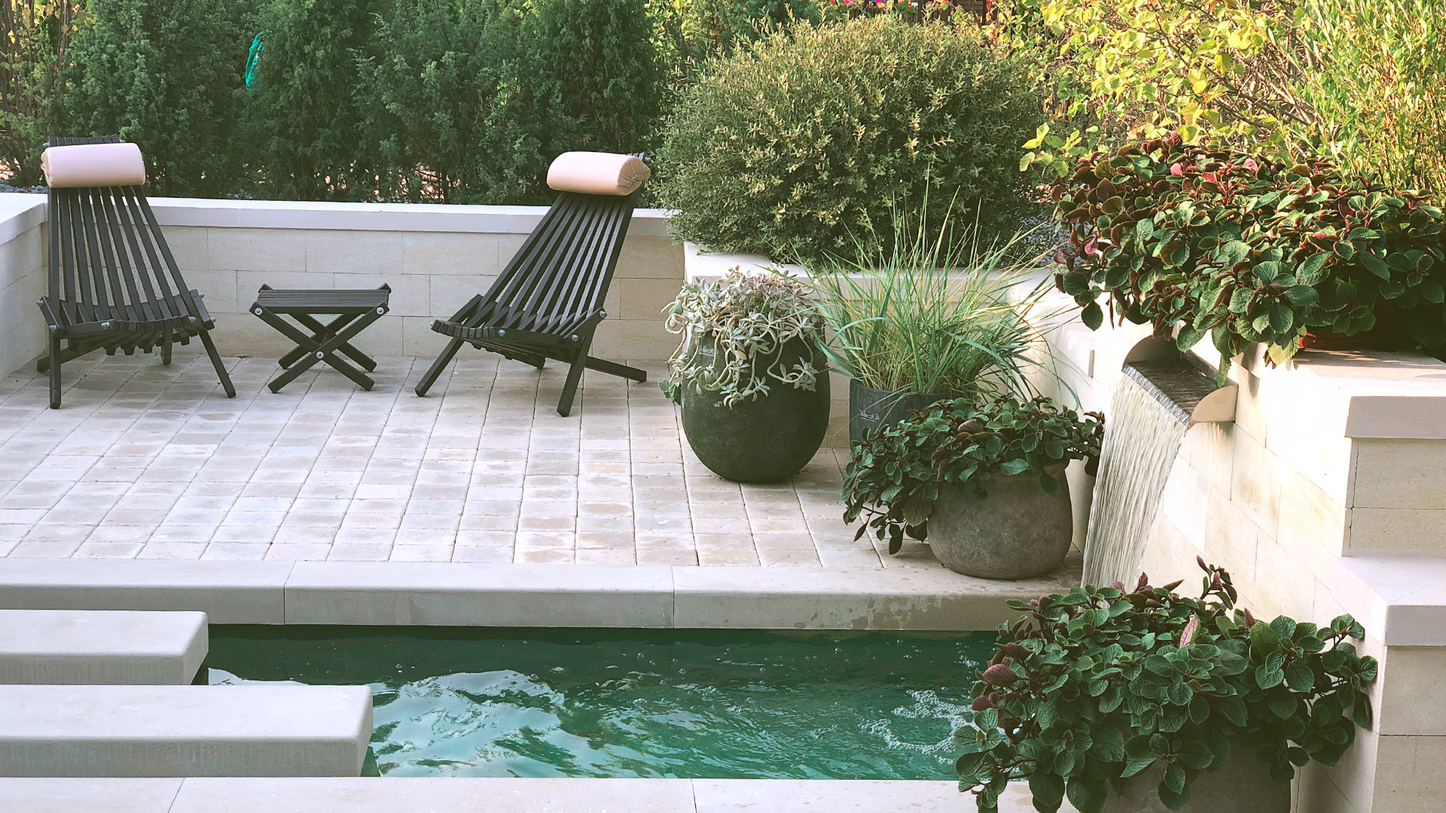
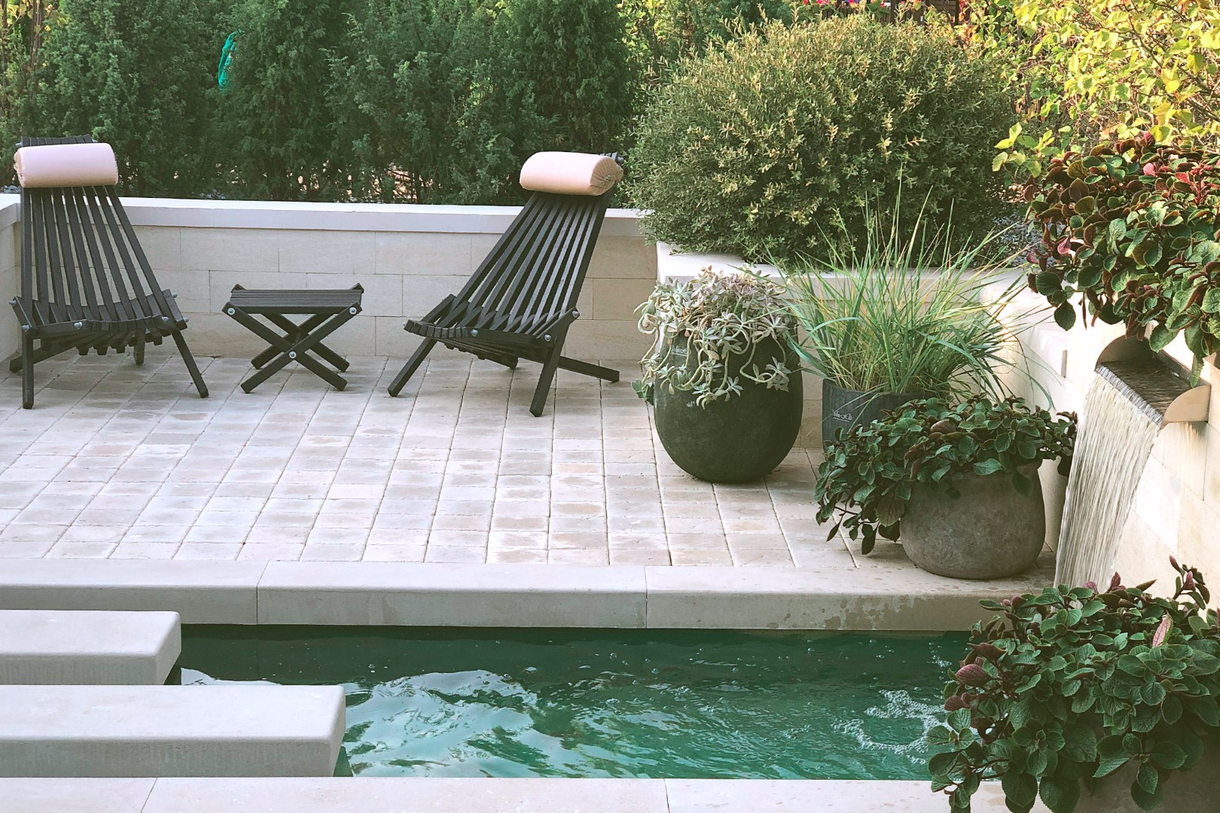
added bristop photos

diff --git a/projects/bristol.html b/projects/bristol.html
@@ -137,10 +137,10 @@
               <picture
                 ><source
                   media="(min-width: 1280px)"
-                  data-srcset="/assets/img/projects/chelsea/mbs-chelsea-4.1648540143.jpg" />
+                  data-srcset="/assets/img/projects/Бристоль/1920x1080/8783-lg.jpg" />
                 <img
                   class="lazy"
-                  data-srcset="/assets/img/projects/chelsea/mbs-chelsea-4-sm.1648540143.jpg"
+                  data-srcset="/assets/img/projects/Бристоль/1920x1080/8783-lg.jpg"
                   decoding="sync"
               /></picture>
             </div>
@@ -150,10 +150,10 @@
               <picture
                 ><source
                   media="(min-width: 1280px)"
-                  data-srcset="/assets/img/projects/chelsea/mbs-chelsea-8.1648540143.jpg" />
+                  data-srcset="/assets/img/projects/Бристоль/duos/bristol-duos-1.jpg" />
                 <img
                   class="lazy"
-                  data-srcset="/assets/img/projects/chelsea/mbs-chelsea-8-sm.1648540143.jpg"
+                  data-srcset="/assets/img/projects/Бристоль/duos/bristol-duos-1.jpg"
                   decoding="sync"
               /></picture>
             </div>
@@ -163,10 +163,10 @@
               <picture
                 ><source
                   media="(min-width: 1280px)"
-                  data-srcset="/assets/img/projects/chelsea/mbs-chelsea-1.1648540142.jpg" />
+                  data-srcset="/assets/img/projects/Бристоль/1920x1080/8805-lg.jpg" />
                 <img
                   class="lazy"
-                  data-srcset="/assets/img/projects/chelsea/mbs-chelsea-1-sm.1648540142.jpg"
+                  data-srcset="/assets/img/projects/Бристоль/1920x1080/8805-lg.jpg"
                   decoding="sync"
               /></picture>
             </div>
@@ -176,253 +176,10 @@
               <picture
                 ><source
                   media="(min-width: 1280px)"
-                  data-srcset="/assets/img/projects/chelsea/mbs-chelsea-2.1648540142.jpg" />
+                  data-srcset="/assets/img/projects/Бристоль/1920x1080/8789-lg.jpg" />
                 <img
                   class="lazy"
-                  data-srcset="/assets/img/projects/chelsea/mbs-chelsea-2-sm.1648540142.jpg"
-                  decoding="sync"
-              /></picture>
-            </div>
-          </section>
-          <section class="image" data-module-num="6">
-            <div class="info-wrapper" style="--ratio: 66.648471615721%">
-              <picture
-                ><source
-                  media="(min-width: 1280px)"
-                  data-srcset="/assets/img/projects/chelsea/mbs-chelsea-3.1648540143.jpg" />
-                <img
-                  class="lazy"
-                  data-srcset="/assets/img/projects/chelsea/mbs-chelsea-3-sm.1648540142.jpg"
-                  decoding="sync"
-              /></picture>
-            </div>
-          </section>
-          <section class="image" data-module-num="7">
-            <div class="info-wrapper" style="--ratio: 100%">
-              <picture
-                ><source
-                  media="(min-width: 1280px)"
-                  data-srcset="/assets/img/projects/chelsea/mbs-chelsea-5.1648540143.jpg" />
-                <img
-                  class="lazy"
-                  data-srcset="/assets/img/projects/chelsea/mbs-chelsea-5-sm.1648540143.jpg"
-                  decoding="sync"
-              /></picture>
-            </div>
-          </section>
-          <section class="image" data-module-num="8">
-            <div class="info-wrapper" style="--ratio: 66.648471615721%">
-              <picture
-                ><source
-                  media="(min-width: 1280px)"
-                  data-srcset="/assets/img/projects/chelsea/mbs-chelsea-6.1648540143.jpg" />
-                <img
-                  class="lazy"
-                  data-srcset="/assets/img/projects/chelsea/mbs-chelsea-6-sm.1648540143.jpg"
-                  decoding="sync"
-              /></picture>
-            </div>
-          </section>
-          <section class="text" data-module-num="9">
-            <p>
-              The geometric plan of the garden, created by linear waterways,
-              hedges and paths is softened through the use of naturalistic
-              swathes of planting, punctuated by contrasting bold colour
-              combinations, which echo the theme of the De Stijl movement’s
-              modernist order versus nature&rsquo;s disorder.
-            </p>
-          </section>
-          <section class="image" data-module-num="10">
-            <div class="info-wrapper" style="--ratio: 66.648471615721%">
-              <picture
-                ><source
-                  media="(min-width: 1280px)"
-                  data-srcset="/assets/img/projects/chelsea/mbs-chelsea-7.1648540143.jpg" />
-                <img
-                  class="lazy"
-                  data-srcset="/assets/img/projects/chelsea/mbs-chelsea-7-sm.1648540143.jpg"
-                  decoding="sync"
-              /></picture>
-            </div>
-          </section>
-          <section class="image" data-module-num="11">
-            <div class="info-wrapper" style="--ratio: 100%">
-              <picture
-                ><source
-                  media="(min-width: 1280px)"
-                  data-srcset="/assets/img/projects/chelsea/mbs-chelsea-9.1648540143.jpg" />
-                <img
-                  class="lazy"
-                  data-srcset="/assets/img/projects/chelsea/mbs-chelsea-9-sm.1648540143.jpg"
-                  decoding="sync"
-              /></picture>
-            </div>
-          </section>
-          <section class="image" data-module-num="12">
-            <div class="info-wrapper" style="--ratio: 66.648471615721%">
-              <picture
-                ><source
-                  media="(min-width: 1280px)"
-                  data-srcset="/assets/img/projects/chelsea/mbs-chelsea-10.1648540143.jpg" />
-                <img
-                  class="lazy"
-                  data-srcset="/assets/img/projects/chelsea/mbs-chelsea-10-sm.1648540143.jpg"
-                  decoding="sync"
-              /></picture>
-            </div>
-          </section>
-          <section class="image" data-module-num="13">
-            <div class="info-wrapper" style="--ratio: 60%">
-              <picture
-                ><source
-                  media="(min-width: 1280px)"
-                  data-srcset="/assets/img/projects/chelsea/mbs-chelsea-11.1648540144.jpg" />
-                <img
-                  class="lazy"
-                  data-srcset="/assets/img/projects/chelsea/mbs-chelsea-11-sm.1648540143.jpg"
-                  decoding="sync"
-              /></picture>
-            </div>
-          </section>
-          <section class="image" data-module-num="14">
-            <div class="info-wrapper" style="--ratio: 100%">
-              <picture
-                ><source
-                  media="(min-width: 1280px)"
-                  data-srcset="/assets/img/projects/chelsea/mbs-chelsea-12.1648540144.jpg" />
-                <img
-                  class="lazy"
-                  data-srcset="/assets/img/projects/chelsea/mbs-chelsea-12-sm.1648540144.jpg"
-                  decoding="sync"
-              /></picture>
-            </div>
-          </section>
-          <section class="image" data-module-num="15">
-            <div class="info-wrapper" style="--ratio: 100%">
-              <picture
-                ><source
-                  media="(min-width: 1280px)"
-                  data-srcset="/assets/img/projects/chelsea/mbs-chelsea-13.1648540144.jpg" />
-                <img
-                  class="lazy"
-                  data-srcset="/assets/img/projects/chelsea/mbs-chelsea-13-sm.1648540144.jpg"
-                  decoding="sync"
-              /></picture>
-            </div>
-          </section>
-          <section class="image" data-module-num="16">
-            <div class="info-wrapper" style="--ratio: 66.648471615721%">
-              <picture
-                ><source
-                  media="(min-width: 1280px)"
-                  data-srcset="/assets/img/projects/chelsea/mbs-chelsea-14.1648540144.jpg" />
-                <img
-                  class="lazy"
-                  data-srcset="/assets/img/projects/chelsea/mbs-chelsea-14-sm.1648540144.jpg"
-                  decoding="sync"
-              /></picture>
-            </div>
-          </section>
-          <section class="image" data-module-num="17">
-            <div class="info-wrapper" style="--ratio: 66.648471615721%">
-              <picture
-                ><source
-                  media="(min-width: 1280px)"
-                  data-srcset="/assets/img/projects/chelsea/mbs-chelsea-15.1648540144.jpg" />
-                <img
-                  class="lazy"
-                  data-srcset="/assets/img/projects/chelsea/mbs-chelsea-15-sm.1648540144.jpg"
-                  decoding="sync"
-              /></picture>
-            </div>
-          </section>
-          <section class="image" data-module-num="18">
-            <div class="info-wrapper" style="--ratio: 66.648471615721%">
-              <picture
-                ><source
-                  media="(min-width: 1280px)"
-                  data-srcset="/assets/img/projects/chelsea/mbs-chelsea-16.1648540144.jpg" />
-                <img
-                  class="lazy"
-                  data-srcset="/assets/img/projects/chelsea/mbs-chelsea-16-sm.1648540144.jpg"
-                  decoding="sync"
-              /></picture>
-            </div>
-          </section>
-          <section class="image" data-module-num="19">
-            <div class="info-wrapper" style="--ratio: 66.648471615721%">
-              <picture
-                ><source
-                  media="(min-width: 1280px)"
-                  data-srcset="/assets/img/projects/chelsea/mbs-chelsea-17.1648540144.jpg" />
-                <img
-                  class="lazy"
-                  data-srcset="/assets/img/projects/chelsea/mbs-chelsea-17-sm.1648540144.jpg"
-                  decoding="sync"
-              /></picture>
-            </div>
-          </section>
-          <section class="image" data-module-num="20">
-            <div class="info-wrapper" style="--ratio: 66.648471615721%">
-              <picture
-                ><source
-                  media="(min-width: 1280px)"
-                  data-srcset="/assets/img/projects/chelsea/mbs-chelsea-18.1648540144.jpg" />
-                <img
-                  class="lazy"
-                  data-srcset="/assets/img/projects/chelsea/mbs-chelsea-18-sm.1648540144.jpg"
-                  decoding="sync"
-              /></picture>
-            </div>
-          </section>
-          <section class="image" data-module-num="21">
-            <div class="info-wrapper" style="--ratio: 66.648471615721%">
-              <picture
-                ><source
-                  media="(min-width: 1280px)"
-                  data-srcset="/assets/img/projects/chelsea/mbs-chelsea-19.1648540144.jpg" />
-                <img
-                  class="lazy"
-                  data-srcset="/assets/img/projects/chelsea/mbs-chelsea-19-sm.1648540144.jpg"
-                  decoding="sync"
-              /></picture>
-            </div>
-          </section>
-          <section class="image" data-module-num="22">
-            <div class="info-wrapper" style="--ratio: 66.648471615721%">
-              <picture
-                ><source
-                  media="(min-width: 1280px)"
-                  data-srcset="/assets/img/projects/chelsea/mbs-chelsea-20.1648540145.jpg" />
-                <img
-                  class="lazy"
-                  data-srcset="/assets/img/projects/chelsea/mbs-chelsea-20-sm.1648540144.jpg"
-                  decoding="sync"
-              /></picture>
-            </div>
-          </section>
-          <section class="image" data-module-num="23">
-            <div class="info-wrapper" style="--ratio: 66.648471615721%">
-              <picture
-                ><source
-                  media="(min-width: 1280px)"
-                  data-srcset="/assets/img/projects/chelsea/mbs-chelsea-21.1648540145.jpg" />
-                <img
-                  class="lazy"
-                  data-srcset="/assets/img/projects/chelsea/mbs-chelsea-21-sm.1648540144.jpg"
-                  decoding="sync"
-              /></picture>
-            </div>
-          </section>
-          <section class="image" data-module-num="24">
-            <div class="info-wrapper" style="--ratio: 60%">
-              <picture
-                ><source
-                  media="(min-width: 1280px)"
-                  data-srcset="/assets/img/projects/chelsea/mbs-chelsea-22.1648540145.jpg" />
-                <img
-                  class="lazy"
-                  data-srcset="/assets/img/projects/chelsea/mbs-chelsea-22-sm.1648540145.jpg"
+                  data-srcset="/assets/img/projects/Бристоль/1920x1080/8789-lg.jpg"
                   decoding="sync"
               /></picture>
             </div>
